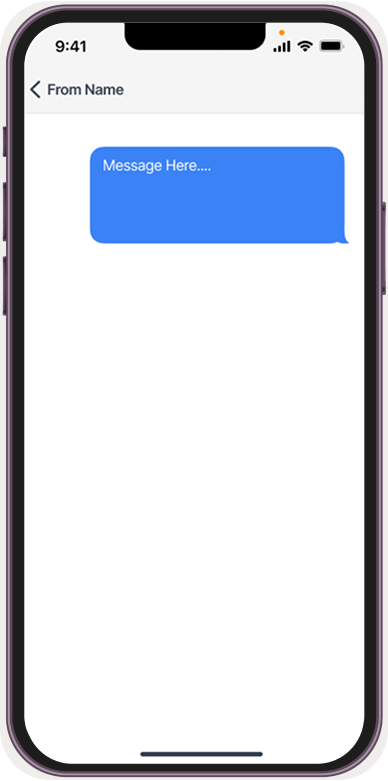
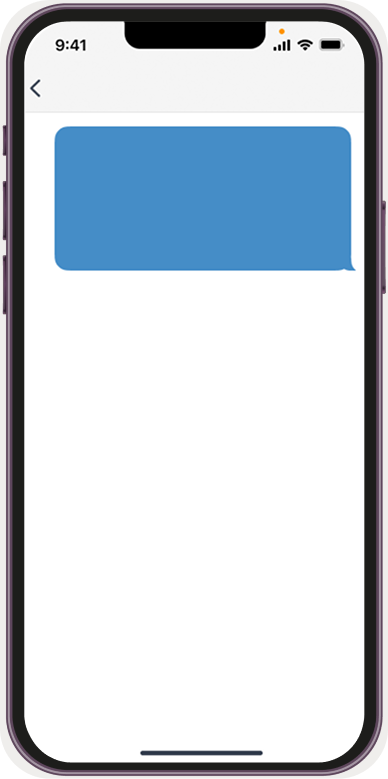
feat(sms-template): replace image with SMSDevice component and improve code formatting

diff --git a/src/client/pages/campaign/steps/templates/sms-template.tsx b/src/client/pages/campaign/steps/templates/sms-template.tsx
@@ -35,7 +35,7 @@ import { ImageUploadControl } from '@/builder/blocks/basic/shared/ImageUploadCon
 import { getCampaignEndpoint } from '@quillcrm/utils';
 //@ts-ignore
 import device from '../../../../../../assets/images/message-device.png';
-
+import SMSDevice from './sms-device';
 
 const SMSTemplateStep: React.FC = () => {
 	const { campaign, saving, goToStep } = useCampaignStep();
@@ -49,7 +49,10 @@ const SMSTemplateStep: React.FC = () => {
 	// Scroll to notice banner when it appears
 	useEffect(() => {
 		if (notice && noticeBannerRef.current) {
-			noticeBannerRef.current.scrollIntoView({ behavior: 'smooth', block: 'nearest' });
+			noticeBannerRef.current.scrollIntoView({
+				behavior: 'smooth',
+				block: 'nearest',
+			});
 		}
 	}, [notice]);
 
@@ -115,7 +118,10 @@ const SMSTemplateStep: React.FC = () => {
 		if (template.body.length > 1600) {
 			setNotice({
 				type: 'error',
-				message: __('Message is too long. Maximum 1600 characters.', 'quillcrm'),
+				message: __(
+					'Message is too long. Maximum 1600 characters.',
+					'quillcrm'
+				),
 			});
 			return false;
 		}
@@ -164,7 +170,10 @@ const SMSTemplateStep: React.FC = () => {
 				type: 'error',
 				message:
 					error.message ||
-					__('Failed to save template. Please try again.', 'quillcrm'),
+					__(
+						'Failed to save template. Please try again.',
+						'quillcrm'
+					),
 			});
 		}
 	};
@@ -233,7 +242,11 @@ const SMSTemplateStep: React.FC = () => {
 						)}
 						icon={<SetUpInfoIcon />}
 						onNext={save}
-						nextLabel={saving ? __('Saving...', 'quillcrm') : __('Next', 'quillcrm')}
+						nextLabel={
+							saving
+								? __('Saving...', 'quillcrm')
+								: __('Next', 'quillcrm')
+						}
 						showButtons={true}
 						isLoading={saving}
 					>
@@ -303,9 +316,7 @@ const SMSTemplateStep: React.FC = () => {
 									</div>
 									<Button
 										variant="ghost"
-										onClick={() =>
-											setShowWarning(false)
-										}
+										onClick={() => setShowWarning(false)}
 										className="flex-shrink-0 text-[#333333] shadow-none border-none p-0 hover:text-black"
 									>
 										<X className="w-4 h-4" />
@@ -320,14 +331,19 @@ const SMSTemplateStep: React.FC = () => {
 									<div className="flex items-center justify-between">
 										<label className="text-base font-medium text-[#333333]">
 											{__('Message', 'quillcrm')}
-											<span className="text-red-500">*</span>
+											<span className="text-red-500">
+												*
+											</span>
 										</label>
 										<Button
 											variant="ghost"
 											onClick={handleMergeTagClick}
 											className="text-[#333333] shadow-none border-none p-0 hover:text-black"
 										>
-											<MergeTagsIcon width={24} height={24} />
+											<MergeTagsIcon
+												width={24}
+												height={24}
+											/>
 										</Button>
 									</div>
 									<Textarea
@@ -400,9 +416,7 @@ const SMSTemplateStep: React.FC = () => {
 						</div>
 					</PanelSettings>
 				</div>
-				<div className="flex flex-col items-center justify-center border border-gray-200 rounded-2xl bg-[#F8F8F8] w-1/3">
-					<img src={device} alt="device" className="w-[350px]" />
-				</div>
+				<SMSDevice fromName={fromName} body={template.body} />
 			</div>
 		</PanelLayout>
 	);

diff --git a/src/client/pages/campaign/steps/templates/sms-device.tsx b/src/client/pages/campaign/steps/templates/sms-device.tsx
@@ -1,0 +1,37 @@
+import { __ } from '@wordpress/i18n';
+//@ts-ignore
+import device from '../../../../../../assets/images/message-device.png';
+
+const SMSDevice: React.FC<{
+    fromName?: string;
+    body?: string;
+}> = ({ fromName, body }) => {
+    const displayFromName = fromName?.trim() || __('From Name', 'quillcrm');
+    const displayBody = body?.trim() || __('Message Here...', 'quillcrm');
+
+    return (
+        <div className="flex flex-col items-center justify-center border border-gray-200 rounded-2xl bg-[#F8F8F8] w-full lg:w-1/3 py-8 sm:py-10">
+            <div className="relative w-full flex items-center justify-center">
+                <img
+                    src={device}
+                    alt={__('Mobile preview', 'quillcrm')}
+                    className="w-full max-w-[260px] sm:max-w-[300px] select-none pointer-events-none"
+                />
+
+                <div className="absolute top-[9.5%] left-1/2 -translate-x-1/2 w-[58%] sm:w-[45%] max-w-[180px]">
+                    <span className="block text-center font-semibold text-[#09090B] text-xs sm:text-sm truncate">
+                        {displayFromName}
+                    </span>
+                </div>
+
+                <div className="absolute top-[18%] left-[53%] -translate-x-1/2 w-[75%] sm:w-[65%] max-w-[220px]">
+                    <p className="text-[10px] sm:text-xs leading-5 text-white whitespace-pre-wrap break-words max-h-[93px] overflow-hidden text-ellipsis line-clamp-6">
+                        {displayBody}
+                    </p>
+                </div>
+            </div>
+        </div>
+    );
+};
+
+export default SMSDevice;
